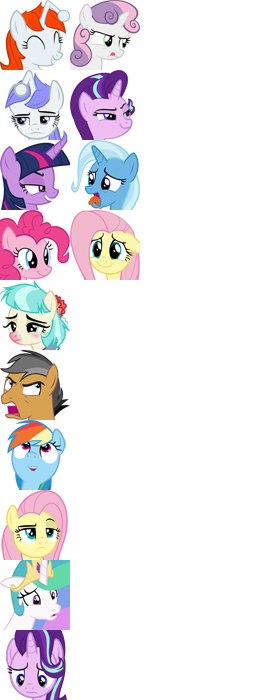
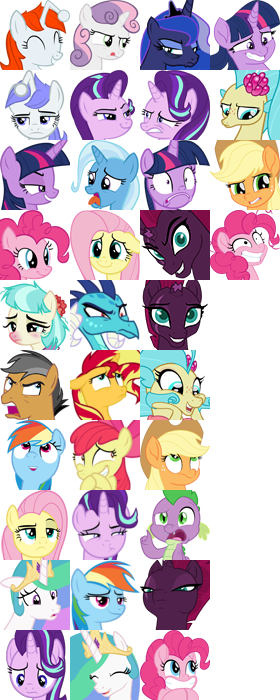
Another batch of new emotes

diff --git a/JabbR/Chat.emoji.js b/JabbR/Chat.emoji.js
@@ -3,9 +3,9 @@ var EmojiIcons;
 
 (function () {
     "use strict";
-    
+
     var validEmoji = { "+1": true, "-1": true, "0": true, "1": true, "100": true, "109": true, "1234": true, "2": true, "3": true, "4": true, "5": true, "6": true, "7": true, "8": true, "8ball": true, "9": true, "a": true, "ab": true, "abc": true, "abcd": true, "accept": true, "aerial_tramway": true, "airplane": true, "alarm_clock": true, "alien": true, "ambulance": true, "anchor": true, "angel": true, "anger": true, "angry": true, "anguished": true, "ant": true, "apple": true, "aquarius": true, "aries": true, "arrows_clockwise": true, "arrows_counterclockwise": true, "arrow_backward": true, "arrow_double_down": true, "arrow_double_up": true, "arrow_down": true, "arrow_down_small": true, "arrow_forward": true, "arrow_heading_down": true, "arrow_heading_up": true, "arrow_left": true, "arrow_lower_left": true, "arrow_lower_right": true, "arrow_right": true, "arrow_right_hook": true, "arrow_up": true, "arrow_upper_left": true, "arrow_upper_right": true, "arrow_up_down": true, "arrow_up_small": true, "art": true, "articulated_lorry": true, "astonished": true, "atm": true, "b": true, "baby": true, "baby_bottle": true, "baby_chick": true, "baby_symbol": true, "back": true, "baggage_claim": true, "balloon": true, "ballot_box_with_check": true, "bamboo": true, "banana": true, "bangbang": true, "bank": true, "barber": true, "bar_chart": true, "baseball": true, "basketball": true, "bath": true, "bathtub": true, "battery": true, "bear": true, "bee": true, "beer": true, "beers": true, "beetle": true, "beginner": true, "bell": true, "bento": true, "bicyclist": true, "bike": true, "bikini": true, "bird": true, "birthday": true, "black_circle": true, "black_joker": true, "black_medium_small_square": true, "black_medium_square": true, "black_nib": true, "black_small_square": true, "black_square": true, "black_square_button": true, "blossom": true, "blowfish": true, "blue_book": true, "blue_car": true, "blue_heart": true, "blush": true, "boar": true, "boat": true, "bomb": true, "book": true, "bookmark": true, "bookmark_tabs": true, "books": true, "boom": true, "boot": true, "bouquet": true, "bow": true, "bowling": true, "bowtie": true, "boy": true, "bread": true, "bride_with_veil": true, "bridge_at_night": true, "briefcase": true, "broken_heart": true, "bug": true, "bulb": true, "bullettrain_front": true, "bullettrain_side": true, "bus": true, "busstop": true, "busts_in_silhouette": true, "bust_in_silhouette": true, "cactus": true, "cake": true, "calendar": true, "calling": true, "camel": true, "camera": true, "cancer": true, "candy": true, "capital_abcd": true, "capricorn": true, "car": true, "card_index": true, "carousel_horse": true, "cat": true, "cat2": true, "cd": true, "chart": true, "chart_with_downwards_trend": true, "chart_with_upwards_trend": true, "checkered_flag": true, "cherries": true, "cherry_blossom": true, "chestnut": true, "chicken": true, "children_crossing": true, "chocolate_bar": true, "christmas_tree": true, "church": true, "cinema": true, "circus_tent": true, "city_sunrise": true, "city_sunset": true, "cl": true, "clap": true, "clapper": true, "clipboard": true, "clock1": true, "clock10": true, "clock1030": true, "clock11": true, "clock1130": true, "clock12": true, "clock1230": true, "clock130": true, "clock2": true, "clock230": true, "clock3": true, "clock330": true, "clock4": true, "clock430": true, "clock5": true, "clock530": true, "clock6": true, "clock630": true, "clock7": true, "clock730": true, "clock8": true, "clock830": true, "clock9": true, "clock930": true, "closed_book": true, "closed_lock_with_key": true, "closed_umbrella": true, "cloud": true, "clubs": true, "cn": true, "cocktail": true, "coffee": true, "cold_sweat": true, "collision": true, "computer": true, "confetti_ball": true, "confounded": true, "confused": true, "congratulations": true, "construction": true, "construction_worker": true, "convenience_store": true, "cookie": true, "cool": true, "cop": true, "copyright": true, "corn": true, "couple": true, "couplekiss": true, "couple_with_heart": true, "cow": true, "cow2": true, "credit_card": true, "crocodile": true, "crossed_flags": true, "crown": true, "cry": true, "crying_cat_face": true, "crystal_ball": true, "cupid": true, "curly_loop": true, "currency_exchange": true, "curry": true, "custard": true, "customs": true, "cyclone": true, "dancer": true, "dancers": true, "dango": true, "dart": true, "dash": true, "date": true, "de": true, "deciduous_tree": true, "department_store": true, "diamonds": true, "diamond_shape_with_a_dot_inside": true, "disappointed": true, "disappointed_relieved": true, "dizzy": true, "dizzy_face": true, "dog": true, "dog2": true, "dollar": true, "dolls": true, "dolphin": true, "donut": true, "door": true, "doughnut": true, "do_not_litter": true, "dragon": true, "dragon_face": true, "dress": true, "dromedary_camel": true, "droplet": true, "dvd": true, "e-mail": true, "ear": true, "earth_africa": true, "earth_americas": true, "earth_asia": true, "ear_of_rice": true, "egg": true, "eggplant": true, "egplant": true, "eight": true, "eight_pointed_black_star": true, "eight_spoked_asterisk": true, "electric_plug": true, "elephant": true, "email": true, "end": true, "envelope": true, "es": true, "euro": true, "european_castle": true, "european_post_office": true, "evergreen_tree": true, "exclamation": true, "expressionless": true, "eyeglasses": true, "eyes": true, "facepunch": true, "factory": true, "fallen_leaf": true, "family": true, "fast_forward": true, "fax": true, "fearful": true, "feelsgood": true, "feet": true, "ferris_wheel": true, "file_folder": true, "finnadie": true, "fire": true, "fireworks": true, "fire_engine": true, "first_quarter_moon": true, "first_quarter_moon_with_face": true, "fish": true, "fishing_pole_and_fish": true, "fish_cake": true, "fist": true, "five": true, "flags": true, "flashlight": true, "floppy_disk": true, "flower_playing_cards": true, "flushed": true, "foggy": true, "football": true, "fork_and_knife": true, "fountain": true, "four": true, "four_leaf_clover": true, "fr": true, "free": true, "fried_shrimp": true, "fries": true, "frog": true, "frowning": true, "fu": true, "fuelpump": true, "full_moon": true, "full_moon_with_face": true, "game_die": true, "gb": true, "gem": true, "gemini": true, "ghost": true, "gift": true, "gift_heart": true, "girl": true, "globe_with_meridians": true, "goat": true, "goberserk": true, "godmode": true, "golf": true, "grapes": true, "green_apple": true, "green_book": true, "green_heart": true, "grey_exclamation": true, "grey_question": true, "grimacing": true, "grin": true, "grinning": true, "guardsman": true, "guitar": true, "gun": true, "haircut": true, "hamburger": true, "hammer": true, "hamster": true, "hand": true, "handbag": true, "hankey": true, "hash": true, "hatched_chick": true, "hatching_chick": true, "headphones": true, "heart": true, "heartbeat": true, "heartpulse": true, "hearts": true, "heart_decoration": true, "heart_eyes": true, "heart_eyes_cat": true, "hear_no_evil": true, "heavy_check_mark": true, "heavy_division_sign": true, "heavy_dollar_sign": true, "heavy_exclamation_mark": true, "heavy_minus_sign": true, "heavy_multiplication_x": true, "heavy_plus_sign": true, "helicopter": true, "herb": true, "hibiscus": true, "high_brightness": true, "high_heel": true, "hocho": true, "honeybee": true, "honey_pot": true, "horse": true, "horse_racing": true, "hospital": true, "hotel": true, "hotsprings": true, "hourglass": true, "hourglass_flowing_sand": true, "house": true, "house_with_garden": true, "hurtrealbad": true, "hushed": true, "icecream": true, "ice_cream": true, "id": true, "ideograph_advantage": true, "imp": true, "inbox_tray": true, "incoming_envelope": true, "information_desk_person": true, "information_source": true, "innocent": true, "interrobang": true, "iphone": true, "it": true, "izakaya_lantern": true, "jack_o_lantern": true, "japan": true, "japanese_castle": true, "japanese_goblin": true, "japanese_ogre": true, "jeans": true, "joy": true, "joy_cat": true, "jp": true, "key": true, "keycap_ten": true, "kimono": true, "kiss": true, "kissing": true, "kissing_cat": true, "kissing_closed_eyes": true, "kissing_face": true, "kissing_heart": true, "kissing_smiling_eyes": true, "koala": true, "koko": true, "kr": true, "large_blue_circle": true, "large_blue_diamond": true, "large_orange_diamond": true, "last_quarter_moon": true, "last_quarter_moon_with_face": true, "laughing": true, "leaves": true, "ledger": true, "leftwards_arrow_with_hook": true, "left_luggage": true, "left_right_arrow": true, "lemon": true, "leo": true, "leopard": true, "libra": true, "light_rail": true, "link": true, "lips": true, "lipstick": true, "lock": true, "lock_with_ink_pen": true, "lollipop": true, "loop": true, "loudspeaker": true, "love_hotel": true, "love_letter": true, "low_brightness": true, "m": true, "mag": true, "mag_right": true, "mahjong": true, "mailbox": true, "mailbox_closed": true, "mailbox_with_mail": true, "mailbox_with_no_mail": true, "man": true, "mans_shoe": true, "man_with_gua_pi_mao": true, "man_with_turban": true, "maple_leaf": true, "mask": true, "massage": true, "meat_on_bone": true, "mega": true, "melon": true, "memo": true, "mens": true, "metal": true, "metro": true, "microphone": true, "microscope": true, "milky_way": true, "minibus": true, "minidisc": true, "mobile_phone_off": true, "moneybag": true, "money_with_wings": true, "monkey": true, "monkey_face": true, "monorail": true, "moon": true, "mortar_board": true, "mountain_bicyclist": true, "mountain_cableway": true, "mountain_railway": true, "mount_fuji": true, "mouse": true, "mouse2": true, "movie_camera": true, "moyai": true, "muscle": true, "mushroom": true, "musical_keyboard": true, "musical_note": true, "musical_score": true, "mute": true, "nail_care": true, "name_badge": true, "neckbeard": true, "necktie": true, "negative_squared_cross_mark": true, "neutral_face": true, "new": true, "newspaper": true, "new_moon": true, "new_moon_with_face": true, "ng": true, "nine": true, "non-potable_water": true, "nose": true, "notebook": true, "notebook_with_decorative_cover": true, "notes": true, "no_bell": true, "no_bicycles": true, "no_entry": true, "no_entry_sign": true, "no_good": true, "no_mobile_phones": true, "no_mouth": true, "no_pedestrians": true, "no_smoking": true, "nut_and_bolt": true, "o": true, "o2": true, "ocean": true, "octocat": true, "octopus": true, "oden": true, "office": true, "ok": true, "ok_hand": true, "ok_woman": true, "older_man": true, "older_woman": true, "on": true, "oncoming_automobile": true, "oncoming_bus": true, "oncoming_police_car": true, "oncoming_taxi": true, "one": true, "open_file_folder": true, "open_hands": true, "open_mouth": true, "ophiuchus": true, "orange_book": true, "outbox_tray": true, "ox": true, "package": true, "pager": true, "page_facing_up": true, "page_with_curl": true, "palm_tree": true, "panda_face": true, "paperclip": true, "parking": true, "partly_sunny": true, "part_alternation_mark": true, "passport_control": true, "paw_prints": true, "peach": true, "pear": true, "pencil": true, "pencil2": true, "penguin": true, "pensive": true, "performing_arts": true, "persevere": true, "person_frowning": true, "person_with_blond_hair": true, "person_with_pouting_face": true, "phone": true, "pig": true, "pig2": true, "pig_nose": true, "pill": true, "pineapple": true, "pisces": true, "pizza": true, "plus1": true, "point_down": true, "point_left": true, "point_right": true, "point_up": true, "point_up_2": true, "police_car": true, "poodle": true, "poop": true, "postal_horn": true, "postbox": true, "post_office": true, "potable_water": true, "pouch": true, "poultry_leg": true, "pound": true, "pouting_cat": true, "pray": true, "princess": true, "punch": true, "purple_heart": true, "purse": true, "pushpin": true, "put_litter_in_its_place": true, "question": true, "rabbit": true, "rabbit2": true, "racehorse": true, "radio": true, "radio_button": true, "rage": true, "rage1": true, "rage2": true, "rage3": true, "rage4": true, "railway_car": true, "rainbow": true, "raised_hand": true, "raised_hands": true, "raising_hand": true, "ram": true, "ramen": true, "rat": true, "recycle": true, "red_car": true, "red_circle": true, "registered": true, "relaxed": true, "relieved": true, "repeat": true, "repeat_one": true, "restroom": true, "revolving_hearts": true, "rewind": true, "ribbon": true, "rice": true, "rice_ball": true, "rice_cracker": true, "rice_scene": true, "ring": true, "rocket": true, "roller_coaster": true, "rooster": true, "rose": true, "rotating_light": true, "round_pushpin": true, "rowboat": true, "ru": true, "rugby_football": true, "runner": true, "running": true, "running_shirt_with_sash": true, "sa": true, "sagittarius": true, "sailboat": true, "sake": true, "sandal": true, "santa": true, "satellite": true, "satisfied": true, "saxophone": true, "school": true, "school_satchel": true, "scissors": true, "scorpius": true, "scream": true, "scream_cat": true, "scroll": true, "seat": true, "secret": true, "seedling": true, "see_no_evil": true, "seven": true, "shaved_ice": true, "sheep": true, "shell": true, "ship": true, "shipit": true, "shirt": true, "shit": true, "shoe": true, "shower": true, "signal_strength": true, "six": true, "six_pointed_star": true, "ski": true, "skull": true, "sleeping": true, "sleepy": true, "slot_machine": true, "small_blue_diamond": true, "small_orange_diamond": true, "small_red_triangle": true, "small_red_triangle_down": true, "smile": true, "smiley": true, "smiley_cat": true, "smile_cat": true, "smiling_imp": true, "smirk": true, "smirk_cat": true, "smoking": true, "snail": true, "snake": true, "snowboarder": true, "snowflake": true, "snowman": true, "sob": true, "soccer": true, "soon": true, "sos": true, "sound": true, "space_invader": true, "spades": true, "spaghetti": true, "sparkle": true, "sparkler": true, "sparkles": true, "sparkling_heart": true, "speaker": true, "speak_no_evil": true, "speech_balloon": true, "speedboat": true, "squirrel": true, "star": true, "star2": true, "stars": true, "station": true, "statue_of_liberty": true, "steam_locomotive": true, "stew": true, "straight_ruler": true, "strawberry": true, "stuck_out_tongue": true, "stuck_out_tongue_closed_eyes": true, "stuck_out_tongue_winking_eye": true, "sunflower": true, "sunglasses": true, "sunny": true, "sunrise": true, "sunrise_over_mountains": true, "sun_with_face": true, "surfer": true, "sushi": true, "suspect": true, "suspension_railway": true, "sweat": true, "sweat_drops": true, "sweat_smile": true, "sweet_potato": true, "swimmer": true, "symbols": true, "syringe": true, "tada": true, "tanabata_tree": true, "tangerine": true, "taurus": true, "taxi": true, "tea": true, "telephone": true, "telephone_receiver": true, "telescope": true, "tennis": true, "tent": true, "thought_balloon": true, "three": true, "thumbsdown": true, "thumbsup": true, "ticket": true, "tiger": true, "tiger2": true, "tired_face": true, "tm": true, "toilet": true, "tokyo_tower": true, "tomato": true, "tongue": true, "top": true, "tophat": true, "tractor": true, "traffic_light": true, "train": true, "train2": true, "tram": true, "triangular_flag_on_post": true, "triangular_ruler": true, "trident": true, "triumph": true, "trolleybus": true, "trollface": true, "trophy": true, "tropical_drink": true, "tropical_fish": true, "truck": true, "trumpet": true, "tshirt": true, "tulip": true, "turtle": true, "tv": true, "twisted_rightwards_arrows": true, "two": true, "two_hearts": true, "two_men_holding_hands": true, "two_women_holding_hands": true, "u5272": true, "u5408": true, "u55b6": true, "u6307": true, "u6708": true, "u6709": true, "u6e80": true, "u7121": true, "u7533": true, "u7981": true, "u7a7a": true, "uk": true, "umbrella": true, "unamused": true, "underage": true, "unlock": true, "up": true, "us": true, "v": true, "vertical_traffic_light": true, "vhs": true, "vibration_mode": true, "video_camera": true, "video_game": true, "violin": true, "virgo": true, "volcano": true, "vs": true, "walking": true, "waning_crescent_moon": true, "waning_gibbous_moon": true, "warning": true, "watch": true, "watermelon": true, "water_buffalo": true, "wave": true, "wavy_dash": true, "waxing_crescent_moon": true, "waxing_gibbous_moon": true, "wc": true, "weary": true, "wedding": true, "whale": true, "whale2": true, "wheelchair": true, "white_check_mark": true, "white_circle": true, "white_flower": true, "white_large_square": true, "white_medium_small_square": true, "white_medium_square": true, "white_small_square": true, "white_square": true, "white_square_button": true, "wind_chime": true, "wine_glass": true, "wink": true, "wink2": true, "wolf": true, "woman": true, "womans_clothes": true, "womans_hat": true, "womens": true, "worried": true, "wrench": true, "x": true, "yellow_heart": true, "yen": true, "yum": true, "zap": true, "zero": true, "zzz": true };
-    var validv4c = { "ducktart": "dooktart.png", "ready": "ready.gif", "birry": "ztop.gif", "vdog": "cat.gif", "gaben": "zgabe.gif", "3s": "seal.png", "burd": "birdy.gif", "snoop": "snoop.gif", "jimmies": "jimmy.gif", "sanic": "sonicx.png", "burgirl": "ss.gif", "dilbert": "dilbert.gif", "deepdarkfantasy": "fantasy.gif", "bioware": "biogurl.gif", "shazbot": "33.png", "bestkorea": "kim.gif", "hitoame": "shower.gif", "duane": "duane.gif", "keke": "keke6.png", "uncle": "VffoS.jpg", "reshiram": "ee.gif", "push": "push.gif", "autism": "a.gif", "juggalo": "ll.gif", "stanza": "heh.png", "bestgames": "pstriple.png", "gamestop": "spekettle.gif", "teto": "oz.gif", "fothegrove": "grove.gif", "aliens": "aliens.gif", "go": "zgo.gif", "pomf": "pomf.png", "kreayshawn": "kray.png", "bodywash": "bodywash.png", "goblinu": "zgobz.jpg", "feel": "feel.png", "valien": "ssd.gif", "2spooky4me": "spooky.gif", "gooby": "o2XNE.jpg", "dosh": "dsdasd.png", "8bitdose": "wee2.gif", "costanza": "heh.png", "america": "america.gif", "babyface": "babyface.gif", "babyguitar": "babyguitar.gif", "bearfight": "bearfight.gif", "bogs": "bogs.png", "boom": "boom.png", "brobill": "brobill.gif", "chen": "chen.png", "dante": "dante.png", "data": "data.gif", "datass": "datass.gif", "dewbunker": "dewbunker.gif", "dewritos": "dewritos.jpg", "doingitwell": "doingitwell.png", "doot": "doot.gif", "dreck": "dreck.png", "el": "el.gif", "facepalm": "facepalm.png", "feelsgud": "feelsgud.png", "fichdich": "fichdich.png", "fresh": "fresh.gif", "gigaduane": "gigaduane.gif", "happening": "happening.gif", "haveaseat": "haveaseat.png", "heero": "heero.png", "idontwantthat": "idontwantthat.png", "jaffa": "jaffa.png", "jew": "jew.gif", "jii": "jii.png", "kek": "kek.png", "kfc": "kfc.gif", "kitty": "kitty.gif", "loading": "loading.gif", "manboss": "manboss.gif", "meeku": "meeku.png", "mfw": "mfw.png", "miku": "miku.gif", "miku2": "miku2.gif", "morefresh": "morefresh.gif", "mysides": "mysides.png", "nice": "nice.png", "nofun": "nofun.png", "nogaems": "nogaems.gif", "nope": "nope.gif", "obama": "obama.gif", "ohlawd": "ohlawd.png", "oo": "oo.gif", "osama": "osama.png", "otter": "otter.gif", "pekaface": "pekaface.png", "pikminu": "pikminu.png", "plzgo": "plzgo.png", "praise": "praise.png", "pumpkindance": "pumpkindance.gif", "raging": "raging.png", "rattle": "rattle.gif", "ravi": "ravi.gif", "raw": "raw.png", "remove": "remove.gif", "rip": "rip.png", "satan": "satan.gif", "science": "science.gif", "skeleton": "skeleton.gif", "slam": "slam.png", "slav": "slav.gif", "spherical": "spherical.png", "spurdance": "spurdance.gif", "spurdo": "spurdo.png", "stepfather": "stepfather.png", "stop": "stop.png", "swerve": "swerve.png", "tails": "tails.png", "thed": "thed.png", "turkey": "turkey.png", "twerk": "twerk.gif", "tyrone": "tyrone.png", "umirin": "umirin.jpg", "usa": "usa.gif", "wabbit": "wabbit.png", "whatastory": "whatastory.png", "why": "why.png", "wow": "wow.png", "yotsubano": "yotsubano.png" };
+    var validv4c = { "ducktart": "dooktart.png", "ready": "ready.gif", "birry": "ztop.gif", "vdog": "cat.gif", "gaben": "zgabe.gif", "3s": "seal.png", "burd": "birdy.gif", "snoop": "snoop.gif", "jimmies": "jimmy.gif", "sanic": "sonicx.png", "burgirl": "ss.gif", "dilbert": "dilbert.gif", "deepdarkfantasy": "fantasy.gif", "bioware": "biogurl.gif", "shazbot": "33.png", "bestkorea": "kim.gif", "hitoame": "shower.gif", "duane": "duane.gif", "keke": "keke6.png", "uncle": "VffoS.jpg", "reshiram": "ee.gif", "push": "push.gif", "autism": "a.gif", "juggalo": "ll.gif", "stanza": "heh.png", "bestgames": "pstriple.png", "gamestop": "spekettle.gif", "teto": "oz.gif", "fothegrove": "grove.gif", "aliens": "aliens.gif", "go": "zgo.gif", "pomf": "pomf.png", "kreayshawn": "kray.png", "bodywash": "bodywash.png", "goblinu": "zgobz.jpg", "feel": "feel.png", "valien": "ssd.gif", "2spooky4me": "spooky.gif", "gooby": "o2XNE.jpg", "dosh": "dsdasd.png", "8bitdose": "wee2.gif", "costanza": "heh.png", "america": "america.gif", "babyface": "babyface.gif", "babyguitar": "babyguitar.gif", "bearfight": "bearfight.gif", "bogs": "bogs.png", "boom": "boom.png", "brobill": "brobill.gif", "chen": "chen.png", "dante": "dante.png", "data": "data.gif", "datass": "datass.gif", "dewbunker": "dewbunker.gif", "dewritos": "dewritos.jpg", "doingitwell": "doingitwell.png", "doot": "doot.gif", "dreck": "dreck.png", "el": "el.gif", "facepalm": "facepalm.png", "feelsgud": "feelsgud.png", "fichdich": "fichdich.png", "fresh": "fresh.gif", "gigaduane": "gigaduane.gif", "happening": "happening.gif", "haveaseat": "haveaseat.png", "heero": "heero.png", "idontwantthat": "idontwantthat.png", "jaffa": "jaffa.png", "jew": "jew.gif", "jii": "jii.png", "kek": "kek.png", "kfc": "kfc.gif", "kitty": "kitty.gif", "loading": "loading.gif", "manboss": "manboss.gif", "meeku": "meeku.png", "mfw": "mfw.png", "miku": "miku.gif", "miku2": "miku2.gif", "morefresh": "morefresh.gif", "mysides": "mysides.png", "nice": "nice.png", "nofun": "nofun.png", "nogaems": "nogaems.gif", "nope": "nope.gif", "obama": "obama.gif", "ohlawd": "ohlawd.png", "oo": "oo.gif", "osama": "osama.png", "otter": "otter.gif", "pekaface": "pekaface.png", "pikminu": "pikminu.png", "plzgo": "plzgo.png", "praise": "praise.png", "pumpkindance": "pumpkindance.gif", "raging": "raging.png", "rattle": "rattle.gif", "ravi": "ravi.gif", "raw": "raw.png", "remove": "remove.gif", "rip": "rip.png", "satan": "satan.gif", "science": "science.gif", "skeleton": "skeleton.gif", "slam": "slam.png", "slav": "slav.gif", "spherical": "spherical.png", "spurdance": "spurdance.gif", "spurdo": "spurdo.png", "stepfather": "stepfather.png", "stop": "stop.png", "swerve": "swerve.png", "tails": "tails.png", "thed": "thed.png", "turkey": "turkey.png", "twerk": "twerk.gif", "tyrone": "tyrone.png", "umirin": "umirin.jpg", "usa": "usa.gif", "wabbit": "wabbit.png", "whatastory": "whatastory.png", "why": "why.png", "wow": "wow.png", "yotsubano": "yotsubano.png", "pjsalt": "pjsalt.png" };
     var validPony = {
         "ajlie": "a", "priceless": "a", "flutterjerk": "a", "flutterroll": "a", "twipride": "a", "celestiamad": "a", "twicrazy": "a", "spikemeh": "a", "lunateehee": "a", "lunawait": "a", "paperbagderpy": "a", "abmeh": "a", "ajhappy": "a", "pinkiefear": "a", "twibeam": "a", "scootaderp": "a", "raritydaww": "a", "scootacheer": "a", "swagintosh": "a", "pinkieawe": "a", "ajsup": "a", "flutterwhoa": "a", "rdcry": "a", "silverspoon": "a", "ohcomeon": "a", "ppcute": "a", "abbored": "a", "rarityreally": "a", "raritypaper": "a", "sbbook": "a", "scootaplease": "a", "applegasp": "a", "twiright": "a", "celestiawut": "a", "grannysmith": "a", "rarishock": "a", "shiningarmor": "a", "chrysalis": "a", "cadence": "a", "applederp": "a",
         "flutterfear": "b", "ppboring": "b", "rarityyell": "b", "fluttershy": "b", "ajcower": "b", "ajsly": "b", "eeyup": "b", "rdsmile": "b", "fluttersrs": "b", "raritydress": "b", "takealetter": "b", "rdwut": "b", "ppshrug": "b", "spikenervous": "b", "noooo": "b", "dj": "b", "fluttershh": "b", "flutteryay": "b", "squintyjack": "b", "spikepushy": "b", "ajugh": "b", "raritywut": "b", "dumbfabric": "b", "raritywhy": "b", "trixiesmug": "b", "flutterwink": "b", "rarityannoyed": "b", "soawesome": "b", "ajwut": "b", "twisquint": "b", "raritywhine": "b", "rdcool": "b", "abwut": "b", "manspike": "b", "cockatrice": "b", "facehoof": "b", "rarityjudge": "b", "rarityprimp": "b", "twirage": "b", "ppseesyou": "b",
@@ -13,7 +13,7 @@ var EmojiIcons;
         "stonie": "d", "pinkiehigh": "d", "rbtrippin": "d", "spikehigh": "d", "pervertedaj": "d", "twihigh": "d", "fluttersqueak": "d", "happyrarity": "d", "bakedrarity": "d", "rbhigh": "d", "ajhuh": "d", "flutterfree": "d", "celestreeia": "d", "awwshit": "d", "treepony": "d", "rbomg": "d", "mobboss": "d", "opalescence": "d", "sneakiepinkie": "d", "dirigible": "d", "trixiehigh": "d", "twiderp": "d", "whoovesing": "d", "twiheh": "d", "flutterhigh": "d", "derpyhigh": "d", "flutteryeah": "d", "spikegimmie": "d", "sirderp": "d", "twiblah": "d", "fluttersmoke": "d", "braeburnhuh": "d", "bakedspike": "d", "lunasly": "d", "derpinkie": "d", "lunasilly": "d", "rbreally": "d", "rarityhuh": "d", "bluebowl": "d",
         "fillytgap": "e", "rdhuh": "e", "snails": "e", "twisad": "e", "lyra": "e", "bonbon": "e", "spitfire": "e", "lunamad": "e", "cutealoo": "e", "happyluna": "e", "sotrue": "e", "discordsad": "e", "wahaha": "e", "sbstare": "e", "berry": "e", "maud": "e", "huhhuh": "e", "absmile": "e", "dealwithit": "e", "pinkiepout": "e", "nmm": "e", "whooves": "e", "rdsalute": "e", "twisecret": "e", "octavia": "e", "colgate": "e", "cheerilee": "e", "sunsetshimmer": "e", "ajbaffle": "e", "abhuh": "e", "lily": "e", "sunsetsneaky": "e", "twiponder": "e", "spikewtf": "e", "awwyeah": "e", "scootablue": "e", "gilda": "e", "discentia": "e", "macintears": "e", "spikehappy": "e",
         "ppsad": "f", "dt": "f", "sombra": "f", "sbshocked": "f", "guard": "f", "abstern": "f", "apathia": "f", "ajcry": "f", "rarityeww": "f", "flutterkay": "f", "starlightrage": "f", "bulkbiceps": "f", "scootaeww": "f", "discordgrump": "f", "troubleshoes": "f", "rdsnrk": "f", "thcalm": "f", "ooh": "f", "raritytired": "f", "notangry": "f", "ajdoubt": "f", "spikewhoa": "f", "wasntme": "f", "twipbbt": "f", "flimflam": "f", "cocosmile": "f", "skeptiloo": "f", "limestonegrin": "f", "raritygrump": "f", "goodjob": "f", "flutterhay": "f", "sbwtf": "f", "nightmaregrin": "f", "spikeapproves": "f", "flutternice": "f", "ppdont": "f", "ajgrump": "f", "sgpopcorn": "f", "raritysquee": "f", "gummystare": "f",
-        "karma": "g", "discentiajudge": "g", "twisnide": "g", "pinkie": "g", "cococold": "g", "quibble": "g", "rdthis": "g", "flutterbrow": "g", "celestiahurt": "g", "sgconcern": "g", "sbfocus": "g", "sgsneaky": "g", "trixieww": "g", "flutterplz": "g"
+        "karma": "g", "discentiajudge": "g", "twisnide": "g", "pinkie": "g", "cococold": "g", "quibble": "g", "rdthis": "g", "flutterbrow": "g", "celestiahurt": "g", "sgconcern": "g", "sbfocus": "g", "sgsneaky": "g", "trixieww": "g", "flutterplz": "g", "emberwtf": "g", "sunsetwhyme": "g", "abteehee": "g", "squintyglam": "g", "rdsup": "g", "celestiahappy": "g", "lunagrump": "g", "sgeesh": "g", "twieek": "g", "tempest": "g", "tempestsmile": "g", "squeestar": "g", "appleroll": "g", "spikeholdup": "g", "tempestgaze": "g", "squeekiepie": "g", "twisheepish": "g", "skystarfine": "g", "ajeesh": "g", "pinkiesugar": "g"
     };
 
     var validHotglue = { "doge": "1", "fertilemeadors": "1", "game": "1", "henohenomoheji": "1", "lolwut": "1", "moar": "1", "pedobear": "1", "wat": "1", "yaranaika1": "1", "yaranaika2": "1", "derika": "1", "babz": "1", "bson": "1", "shanz": "1", "jamesy": "1", "kimjongwhere": "1", "doobie": "1" };
@@ -41,13 +41,13 @@ var EmojiIcons;
         "m\\:\\?": ":marisawhat:", "m==\\b": ":marisablank:", "mXD\\b": ":marisa3:", "m\\:p\\b": ":marisakiss:",
         "m\\:P\\b": ":marisakiss:", "m\\:\\)": ":marisasmile:", "m>\\:\\(": ":marisamad:", "m\\:c\\b": ":marisacry:",
         "m\\:C\\b": ":marisacry:", "m\\:\\(": ":marisasad:", "m\\/\\/\\/": ":marisablush:",
-        
+
         "r\\:3\\b": ":reimucute:", "r\\^\\^": ":reimuhappy:", "r>o<": ":reimuangry:", "r>O<": ":reimuangry:",
         "r\\:o\\b": ":reimushock:", "r\\:O\\b": ":reimushock:", "r\\^\\^;": ":reimunervous:", "r--;": ":reimuannoy:",
         "r\\:\\?": ":reimuwhat:", "r==\\b": ":reimublank:", "rXD\\b": ":reimulol:", "r\\:p\\b": ":reimukiss:",
         "r\\:P\\b": ":reimukiss:", "r\\:\\)": ":reimusmile:", "r>\\:\\(": ":reimumad:", "r\\:c\\b": ":reimucry:",
         "r\\:C\\b": ":reimucry:", "r\\:\\(": ":reimusad:", "r\\/\\/\\/": ":reimublush:",
-        
+
         "\\:-?\\)": ":smile:", ":-?D\\b": ":grin:", ";-?\\)": ":wink:",
         "\\:-?\\(": ":disappointed:", "\\:'-?\\(": ":cry:", ":-?P\\b": ":tongue:",
         ":-?p\\b": ":tongue:", ":-?O\\b": ":astonished:", ":-?o\\b": ":astonished:", "<3": ":heart:",
@@ -305,7 +305,7 @@ var EmojiIcons;
         }
         return EmojiIcons;
     };
-    
+
     Emoji.Parser = function () {
         this.parse = function (content) {
             return parseEmoji(content);
@@ -320,7 +320,7 @@ var EmojiIcons;
                     content = content.replace(regex, '\u200B' + validAlias[key] + '\u200B');
                 }
             }
-            
+
             return content;
         }
 

diff --git a/JabbR/Content/ponymoticon.css b/JabbR/Content/ponymoticon.css
@@ -268,3 +268,23 @@ td.ponymoticon { margin-top: 0; }
 .ponymoticon-sgsneaky { background-position: -70px -70px; }
 .ponymoticon-trixieww { background-position: -70px -140px; }
 .ponymoticon-flutterplz { background-position: -70px -210px; }
+.ponymoticon-emberwtf { background-position: -70px -280px; }
+.ponymoticon-sunsetwhyme { background-position: -70px -350px; }
+.ponymoticon-abteehee { background-position: -70px -420px; }
+.ponymoticon-squintyglam { background-position: -70px -490px; }
+.ponymoticon-rdsup { background-position: -70px -560px; }
+.ponymoticon-celestiahappy { background-position: -70px -630px; }
+.ponymoticon-lunagrump { background-position: -140px -0px; }
+.ponymoticon-sgeesh { background-position: -140px -70px; }
+.ponymoticon-twieek { background-position: -140px -140px; }
+.ponymoticon-tempest { background-position: -140px -210px; }
+.ponymoticon-tempestsmile { background-position: -140px -280px; }
+.ponymoticon-squeestar { background-position: -140px -350px; }
+.ponymoticon-appleroll { background-position: -140px -420px; }
+.ponymoticon-spikeholdup { background-position: -140px -490px; }
+.ponymoticon-tempestgaze { background-position: -140px -560px; }
+.ponymoticon-squeekiepie { background-position: -140px -630px; }
+.ponymoticon-twisheepish { background-position: -210px -0px; }
+.ponymoticon-skystarfine { background-position: -210px -70px; }
+.ponymoticon-ajeesh { background-position: -210px -140px; }
+.ponymoticon-pinkiesugar { background-position: -210px -210px; }
